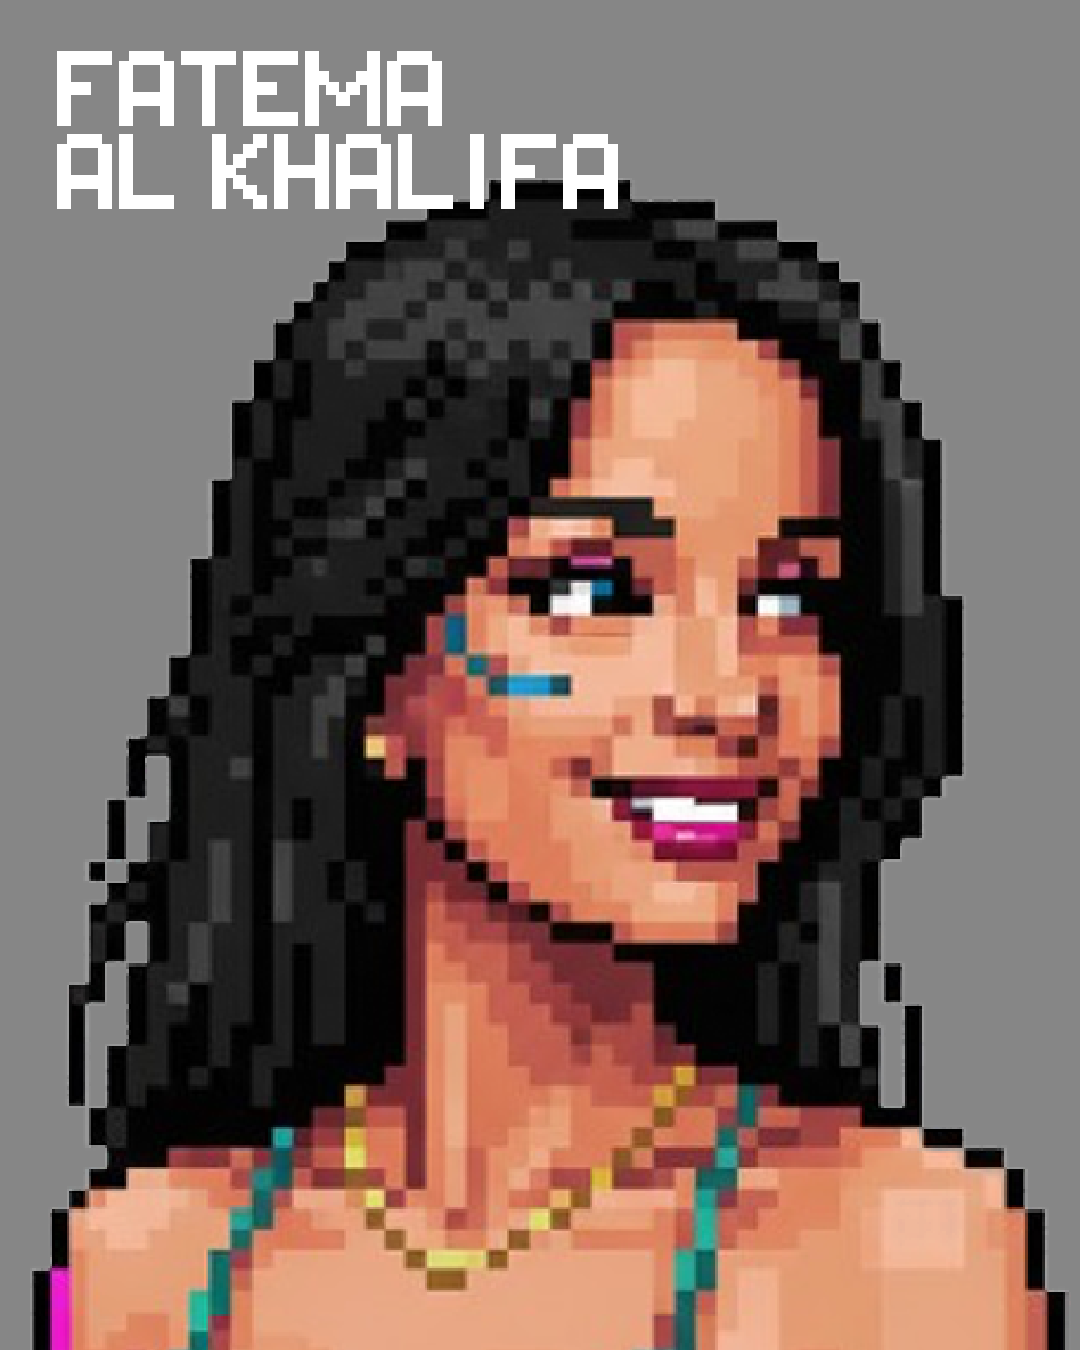
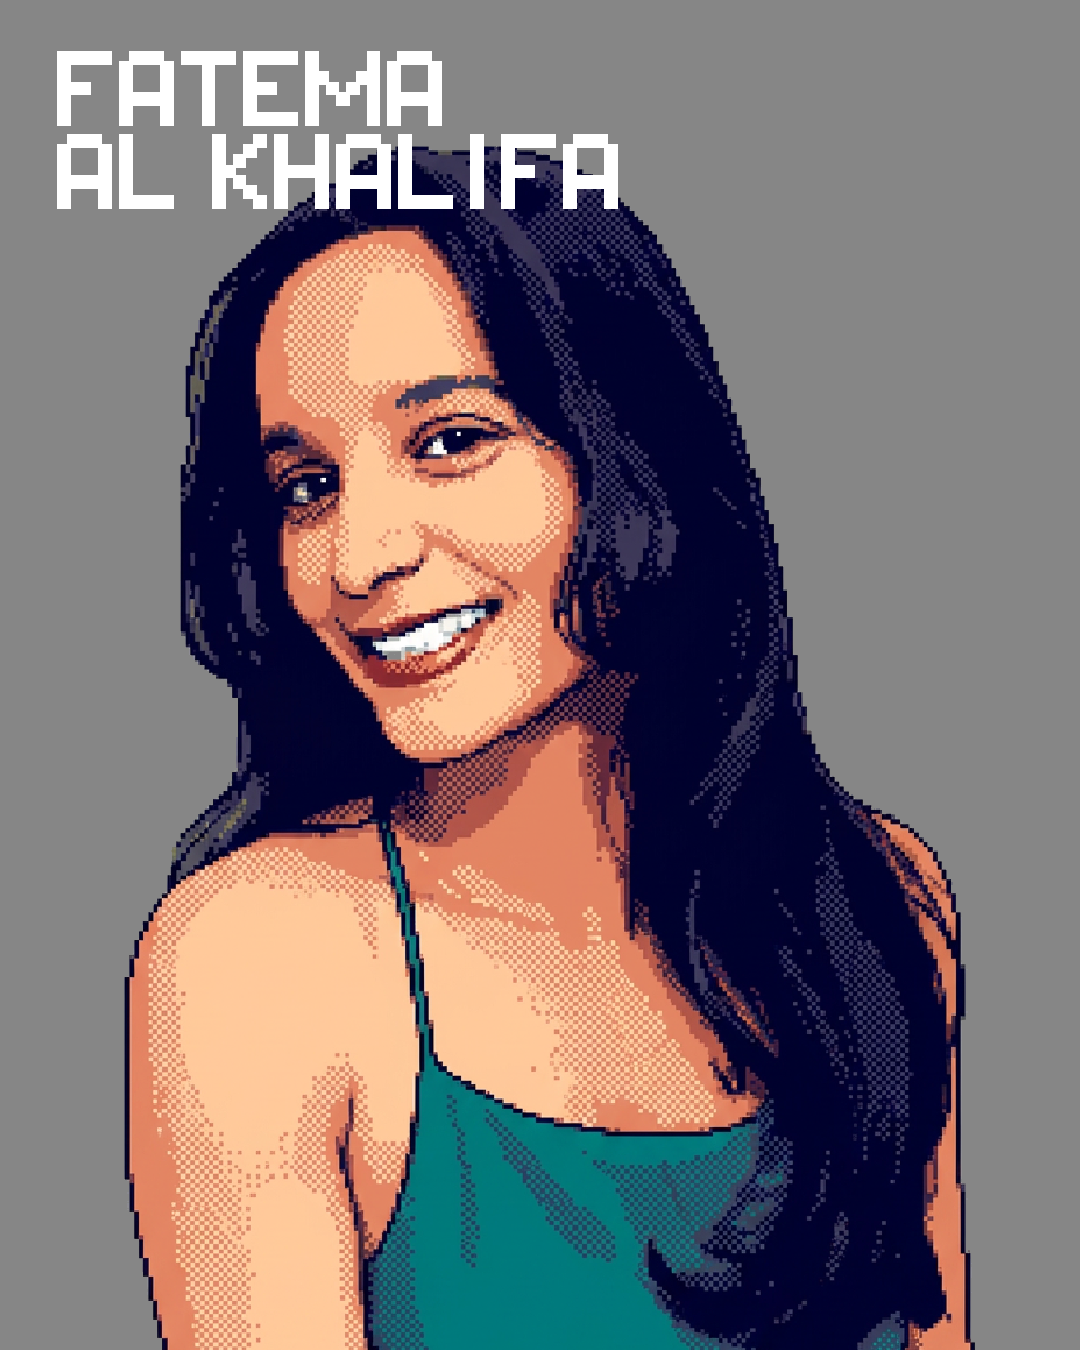
Refresh Fatema portrait

diff --git a/docs/index.html b/docs/index.html
@@ -373,7 +373,7 @@
               >
                 <img
                   class="episode-portrait"
-                  src="/assets/portraits/Fatema.png?v=1"
+                  src="/assets/portraits/Fatema.png?v=2"
                   alt="Portrait of Fatema Al Khalifa"
                 />
               </a>
